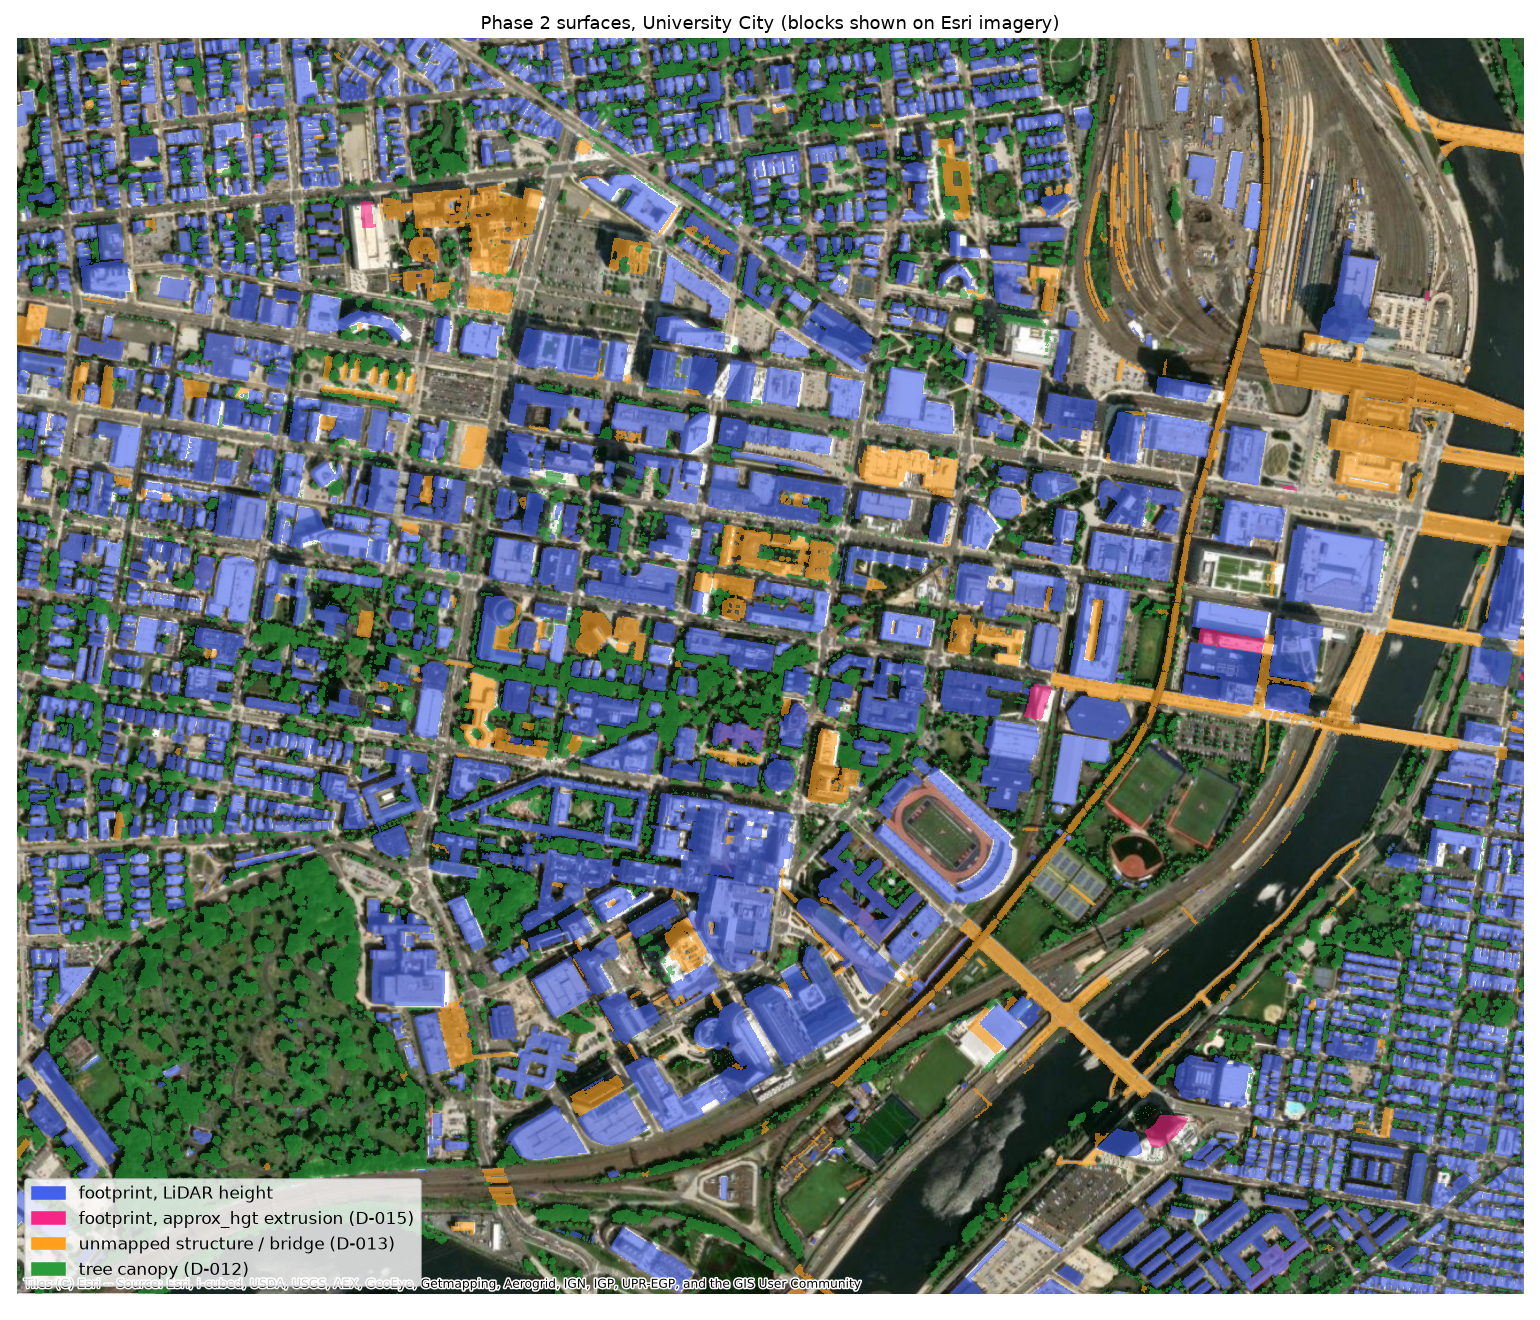
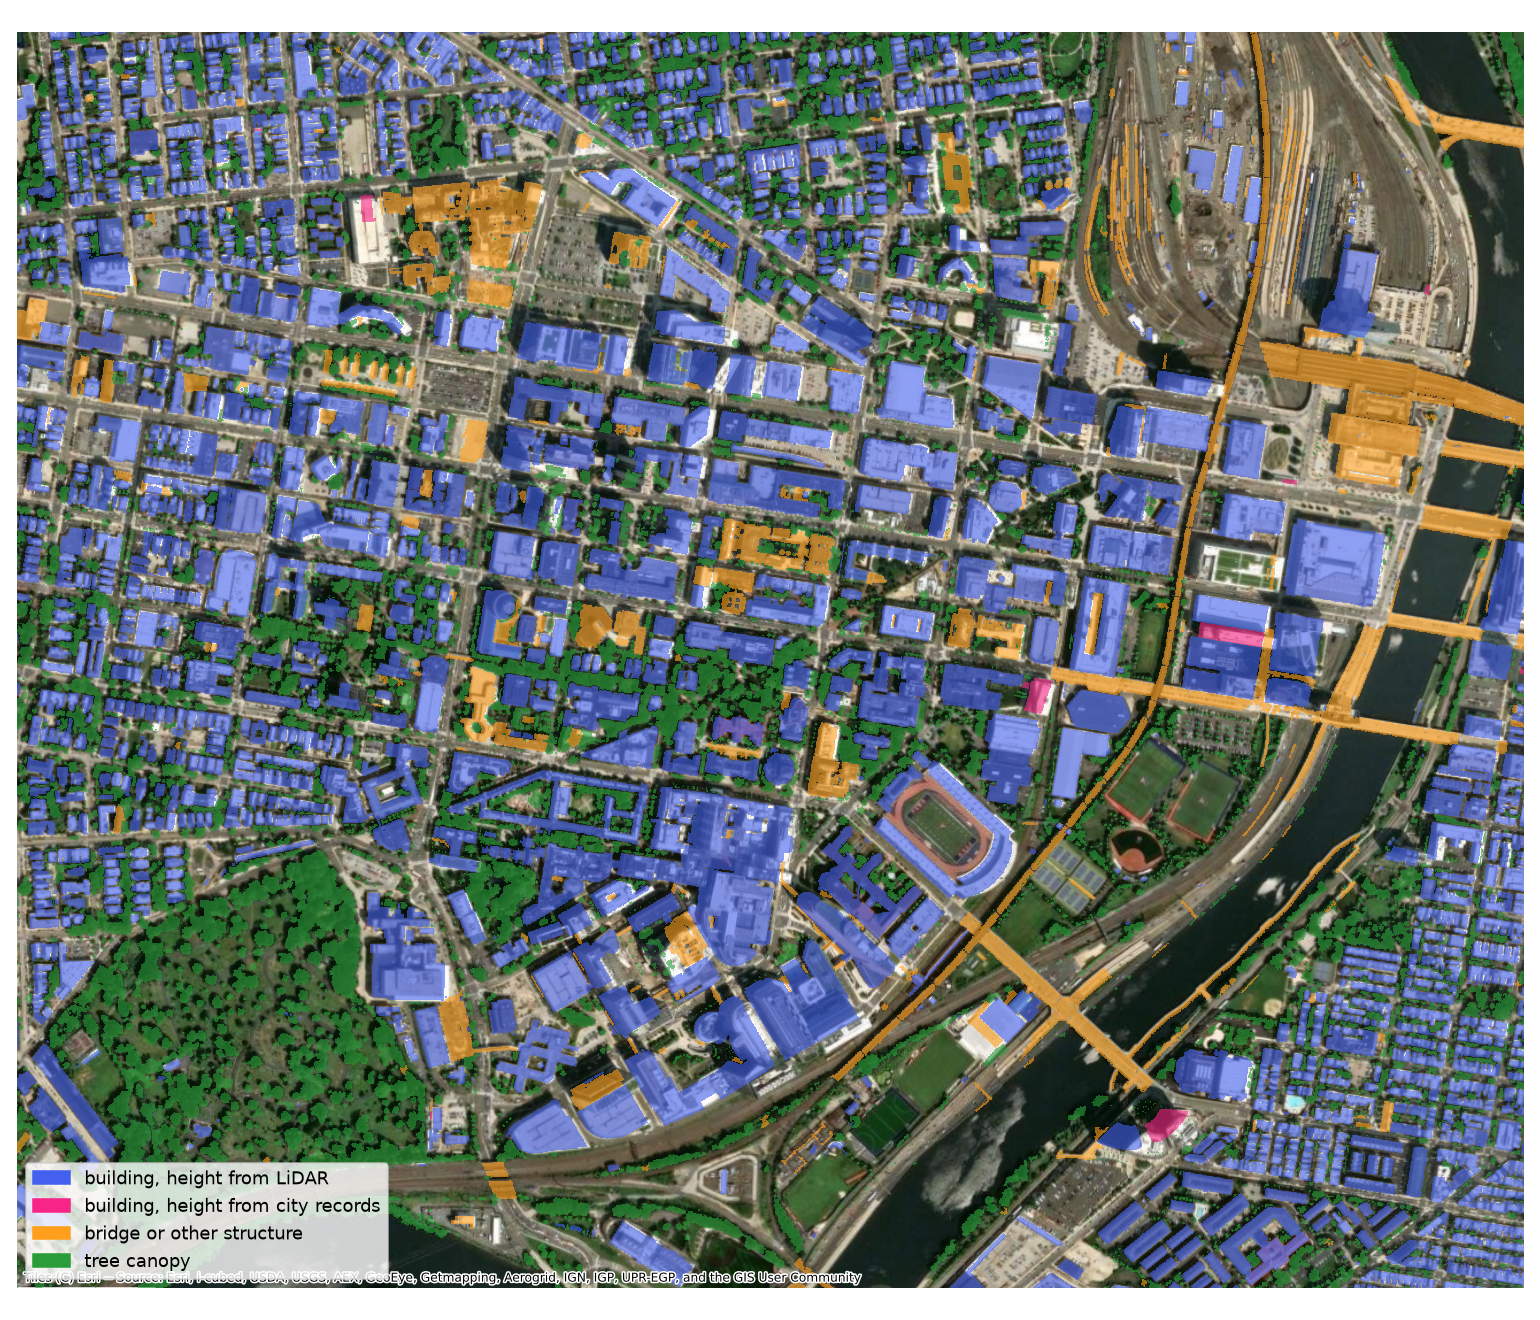
Data page: no repeats or side notes; plain figure legends
- weather cell, the two days and the 1 m heights each said once; no validation, tiling
  or timetable notes; known gaps cut to what limits the results
- mapped University City buildings move into the sources table; no licences in it
- the University City height map and the homes-without-a-stop map are redrawn
  without titles or internal labels, with the current line names (L, B, T); both
  can be redrawn alone ('figure')

diff --git a/scripts/phase_06_summary.py b/scripts/phase_06_summary.py
@@ -107,29 +107,32 @@ def main():
     plt.tight_layout()
     plt.savefig(figs / "phase_06_gap.png", dpi=110)
 
-    # ---- parcels with no home stop within 1.2 km
-    crs = cfg["project"]["crs"]
+    uncovered_figure(cfg)
+
+
+def uncovered_figure(cfg):
+    """Homes without a frequent stop within 1.2 km, with the stations and frequent stops (website Data page; current
+    line names L / B / T, no title)."""
+    proc, figs, crs = cfg["paths"]["processed"], cfg["paths"]["figures"], cfg["project"]["crs"]
     unc = pd.read_parquet(proc / "trips_city_uncovered.parquet")
     par = pd.read_parquet(proc / "trips_city_parcels.parquet")
     stops = home_stops(cfg)
     fig, ax = plt.subplots(figsize=(11, 12))
     gpd.GeoSeries([city(cfg)], crs=crs).boundary.plot(ax=ax, color="k", lw=0.7)
-    ax.scatter(unc.x, unc.y, s=0.2, c="#d62728", alpha=0.4, label=f"no home stop within 1.2 km ({len(unc):,} parcels)")
+    ax.scatter(unc.x, unc.y, s=0.2, c="#d62728", alpha=0.4, label=f"homes without a frequent stop within 1.2 km ({len(unc):,})")
     sm = par.sample(min(len(par), 30000), random_state=cfg["project"]["seed"])
-    ax.scatter(sm.x, sm.y, s=0.2, c="#888", alpha=0.3, label="sampled parcels (30k shown)")
-    for k, c, s in (("surface", "#1f77b4", 3), ("Regional Rail", "#2a9d3a", 16), ("MFL", "#ff7f0e", 16),
-                    ("BSL", "#ff7f0e", 16), ("trolley tunnel", "#9467bd", 16)):
+    ax.scatter(sm.x, sm.y, s=0.2, c="#888", alpha=0.3, label="other homes (sample)")
+    for k, name, c, sz in (("surface", "frequent bus stop", "#1f77b4", 3), ("Regional Rail", "Regional Rail", "#2a9d3a", 16),
+                           ("MFL", "L", "#ff7f0e", 16), ("BSL", "B", "#e377c2", 16), ("trolley tunnel", "T", "#9467bd", 16)):
         ss = stops[stops.kind == k]
-        ax.scatter(ss.geometry.x, ss.geometry.y, s=s, c=c, label=f"{k} ({len(ss)})")
+        ax.scatter(ss.geometry.x, ss.geometry.y, s=sz, c=c, label=f"{name} ({len(ss):,})")
     cx.add_basemap(ax, crs=crs, source=cx.providers.Esri.WorldGrayCanvas, zoom=11)
-    ax.legend(loc="lower right", fontsize=8, markerscale=3)
-    ax.set_title(f"Residential parcels without a home stop within 1.2 km network distance\n"
-                 f"SEPTA GTFS fall 2026 timetable (v202609271), weekday {cfg['trips']['home_stops']['rep_date']} 15:00–19:00, "
-                 f"surface stops ≥ {cfg['trips']['home_stops']['min_per_hour']}/h")
+    ax.legend(loc="lower right", fontsize=10, markerscale=3)
     ax.set_axis_off()
     plt.tight_layout()
     plt.savefig(figs / "phase_06_uncovered.png", dpi=100)
 
 
 if __name__ == "__main__":
-    main()
+    import sys
+    uncovered_figure(load_config()) if sys.argv[1:] == ["figure"] else main()   # "figure": the Data page figure only

diff --git a/scripts/phase_02_qa.py b/scripts/phase_02_qa.py
@@ -161,11 +161,19 @@ def main():
     plt.tight_layout()
     plt.savefig(figs / "phase_02_city.png", dpi=100)
 
-    # University City zoom: building source + trees on aerial
+    ucity_figure(cfg)
+
+
+def ucity_figure(cfg):
+    """University City on aerial imagery: buildings by height source, bridges and other structures, tree canopy
+    (website Data page; plain labels, no title)."""
+    import contextily as cx
+    from matplotlib.colors import ListedColormap
+    from matplotlib.patches import Patch
+    proc, figs, crs = cfg["paths"]["processed"], cfg["paths"]["figures"], cfg["project"]["crs"]
     x0, y0, x1, y1 = 482300, 4421500, 484700, 4423500
     with rasterio.open(proc / "building_source.tif") as s:
-        w = from_bounds(x0, y0, x1, y1, transform=s.transform)
-        sz = s.read(1, window=w)
+        sz = s.read(1, window=from_bounds(x0, y0, x1, y1, transform=s.transform))
     with rasterio.open(proc / "surface_tree.tif") as s:
         tz = s.read(1, window=from_bounds(x0, y0, x1, y1, transform=s.transform))
     fig, ax = plt.subplots(figsize=(14, 12))
@@ -174,18 +182,16 @@ def main():
     cx.add_basemap(ax, crs=crs, source=cx.providers.Esri.WorldImagery, zoom=16)
     lay = np.where(tz > 0, 4, sz).astype(float)
     lay[lay == 0] = np.nan
-    cmap = ListedColormap(["#4361ee", "#f72585", "#ff9f1c", "#2a9d3a"])
-    ax.imshow(lay, cmap=cmap, vmin=0.5, vmax=4.5, alpha=0.6, extent=(x0, x1, y0, y1), interpolation="nearest")
-    from matplotlib.patches import Patch
-    ax.legend(handles=[Patch(color=c_, label=l) for c_, l in zip(
-        ["#4361ee", "#f72585", "#ff9f1c", "#2a9d3a"],
-        ["footprint, LiDAR height", "footprint, approx_hgt extrusion (D-015)", "unmapped structure / bridge (D-013)",
-         "tree canopy (D-012)"])], loc="lower left", fontsize=11)
-    ax.set_title("Phase 2 surfaces, University City (blocks shown on Esri imagery)")
+    cols = ["#4361ee", "#f72585", "#ff9f1c", "#2a9d3a"]
+    ax.imshow(lay, cmap=ListedColormap(cols), vmin=0.5, vmax=4.5, alpha=0.6, extent=(x0, x1, y0, y1), interpolation="nearest")
+    ax.legend(handles=[Patch(color=c_, label=l) for c_, l in zip(cols, [
+        "building, height from LiDAR", "building, height from city records", "bridge or other structure", "tree canopy"])],
+        loc="lower left", fontsize=12)
     ax.set_axis_off()
     plt.tight_layout()
     plt.savefig(figs / "phase_02_ucity.png", dpi=110)
 
 
 if __name__ == "__main__":
-    main()
+    import sys
+    ucity_figure(load_config()) if sys.argv[1:] == ["figure"] else main()   # "figure": the Data page figure only
